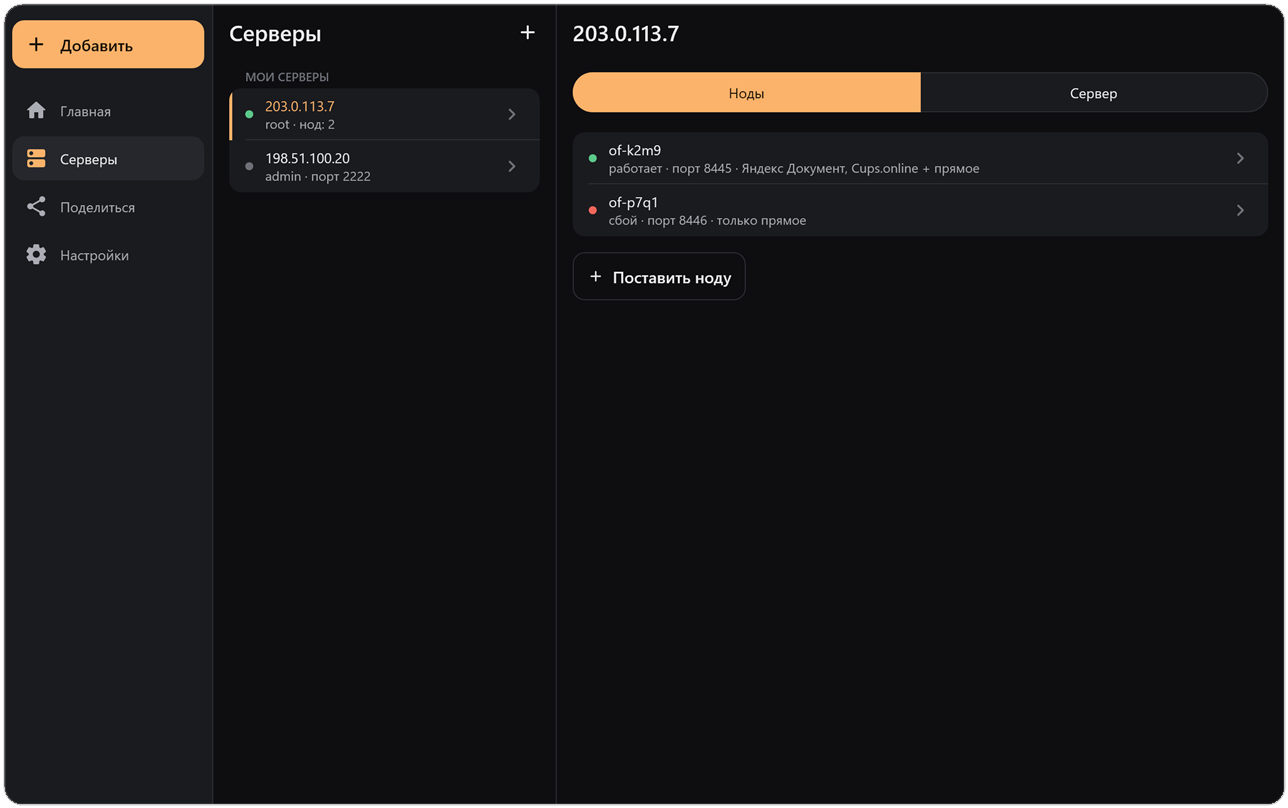
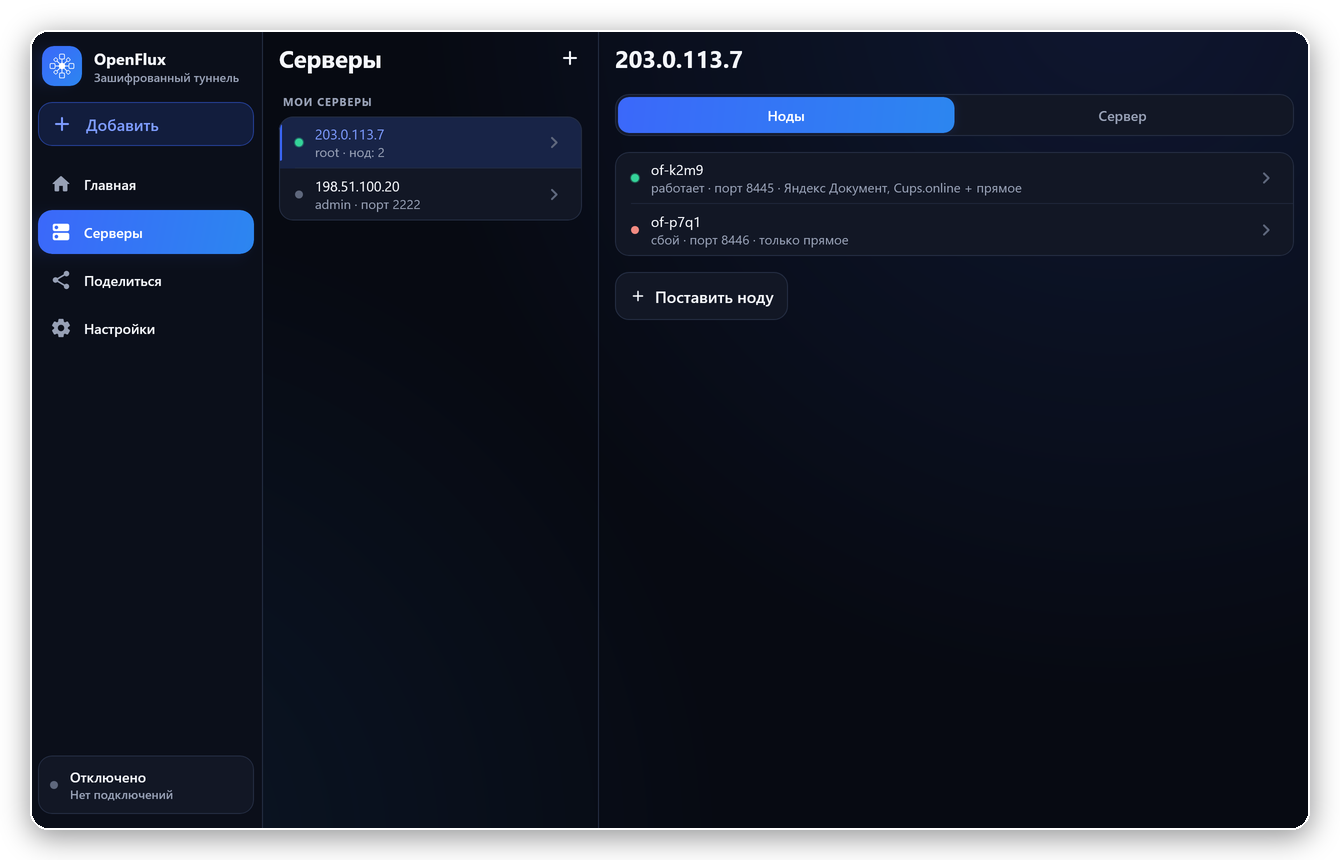
README: the new look, the Moon and Sun switch with an animation, more pictures (shared ef1e622)

Changed region(s): [[0.0, 0.0, 1.0, 1.0]]

diff --git a/README.ru.md b/README.ru.md
@@ -24,15 +24,28 @@
 </p>
 
 <p align="center">
-  <img src="docs/images/desktop-home.png" alt="OpenFlux на компьютере: экран подключения и боковое меню" width="860">
+  <img src="docs/images/desktop-home.png" alt="OpenFlux на компьютере, подключено: Солнце в центре своей сети" width="860">
 </p>
 
 ## Что это
 
 OpenFluxDesktop — приложение для компьютера на базе [OpenFlux](https://github.com/OpenFluxTeam/OpenFlux). Оно запускает ядро OpenFlux отдельным процессом и даёт ему окно, значок в трее и мастер настройки. Трафик идёт через **транспорт**: документ на веб-сервисе (Яндекс, Mail.ru, cups.online, Avito, Телемост, MAX) или обычное TCP-соединение с вашей нодой. В профиле может быть несколько транспортов; когда один перестаёт работать, приложение переходит на следующий по приоритету.
 
+## Выключатель
+
+<p align="center">
+  <img src="docs/images/switch.gif" alt="Выключатель: Луна трескается огнём и сгорает в Солнце, устройства просыпаются и связываются, потом всё возвращается" width="460">
+</p>
+
+Кнопка подключения — маленькая вселенная. Пока приложение выключено, в центре медленно вращается Луна, а вокруг неё дрейфуют телефоны, планшеты, ноутбуки и мониторы с тёмными экранами. Нажмите: пока подключение устанавливается, кора Луны трескается огнём; когда оно готово, Луна сгорает в Солнце, экраны загораются по мере того, как до них доходит его свет, устройства выстраиваются на орбиты, а светящиеся связи соединяют их друг с другом и с Солнцем — по ним бежит трафик, тем быстрее, чем больше его идёт. Отключитесь — всё проиграется обратно; неудачное подключение вспыхнет красным. Луна и Солнце настоящие: карта Луны NASA LRO и поверхность Солнца со спутника Solar Dynamics Observatory, их рисует шейдер на видеокарте.
+
+<p align="center">
+  <img src="docs/images/home-states.png" alt="Главная: выключено, подключение, подключено" width="860">
+</p>
+
 ## Возможности
 
+- **Новый облик.** Тёмно-синий фон и один синий акцент, как в 2.x, мягкий свет и движение повсюду; тёмная и светлая темы.
 - **Весь трафик или прокси.** Весь трафик компьютера через Wintun (Windows) или utun (macOS), либо локальный прокси SOCKS5 и HTTP. В Windows можно ещё и направить на него системный прокси на время подключения.
 - **Несколько транспортов в одном профиле**, у каждого свой приоритет и сеть, по которой ему можно ходить.
 - **Шифрование.** AES-256-GCM от края до края с вашим ключом: сервис, который несёт трафик, его не видит.
@@ -43,7 +56,8 @@ OpenFluxDesktop — приложение для компьютера на баз
 - **Обновления из релизов GitHub** со сверкой по `SHA256SUMS.txt`; ставятся только с вашего согласия.
 
 <p align="center">
-  <img src="docs/images/desktop-servers.png" alt="Список серверов на компьютере" width="860">
+  <img src="docs/images/desktop-light.png" alt="Светлая тема" width="49%">
+  <img src="docs/images/desktop-servers.png" alt="Сервер и его ноды" width="49%">
 </p>
 
 <!-- team:start -->
@@ -114,7 +128,7 @@ scripts/      build-core.sh
 Те же экраны работают на Android в [OpenFluxAndroid](https://github.com/OpenFluxTeam/OpenFluxAndroid); оба приложения используют модуль [OpenFluxClientShared](https://github.com/OpenFluxTeam/OpenFluxClientShared).
 
 <p align="center">
-  <img src="docs/images/phones.png" alt="Тот же интерфейс на телефоне" width="780">
+  <img src="docs/images/phones.png" alt="Тот же интерфейс на телефоне: Главная, серверы, нода, настройки" width="860">
 </p>
 
 ## Авторы

diff --git a/README.md b/README.md
@@ -24,15 +24,28 @@
 </p>
 
 <p align="center">
-  <img src="docs/images/desktop-home.png" alt="OpenFlux on the desktop: the connect screen and the sidebar" width="860">
+  <img src="docs/images/desktop-home.png" alt="OpenFlux on the desktop, connected: the Sun in the middle of its network" width="860">
 </p>
 
 ## What it is
 
 OpenFluxDesktop is the desktop app of [OpenFlux](https://github.com/OpenFluxTeam/OpenFlux). It runs the OpenFlux core as a separate process and gives it a window, a tray icon and a setup wizard. Traffic goes through a **transport**: a document on a web service (Yandex, Mail.ru, cups.online, Avito, Telemost, MAX) or a plain TCP connection to your own node. A profile can hold several transports; the app switches between them by priority when one stops working.
 
+## The switch
+
+<p align="center">
+  <img src="docs/images/switch.gif" alt="The switch: the Moon cracks with fire and burns into the Sun, the devices wake and connect, then it all goes back" width="460">
+</p>
+
+The connect button is a small universe. While the app is off, the Moon turns slowly in the middle and phones, tablets, laptops and monitors drift round it with their screens dark. Press it: while the connection is being set up, the Moon's crust cracks with fire; once it is up, the Moon burns into the Sun, the screens light up as its light reaches them, the devices settle into orbits, and links of light join them to each other and to the Sun, with traffic running along them, faster when the connection carries more. Disconnect and it all plays back; a failed connection flares red. The Moon and the Sun are real: NASA's LRO map of the Moon and the Sun's surface seen by the Solar Dynamics Observatory, drawn by a shader on the GPU.
+
+<p align="center">
+  <img src="docs/images/home-states.png" alt="Home: off, connecting, connected" width="860">
+</p>
+
 ## Features
 
+- **A new look.** Deep navy and one blue accent, as in 2.x, with soft light and motion everywhere; dark and light themes.
 - **Full tunnel or a proxy.** All of the computer's traffic through Wintun (Windows) or utun (macOS), or a local SOCKS5 and HTTP proxy. Windows can also point the system proxy at it while connected.
 - **Several transports in one profile**, each with a priority and the network it may use. When the best one fails, the next takes over.
 - **Encryption.** AES-256-GCM end to end with a key you set; a profile with a key hides the traffic from the service that carries it.
@@ -43,7 +56,8 @@ OpenFluxDesktop is the desktop app of [OpenFlux](https://github.com/OpenFluxTeam
 - **Updates from GitHub releases**, checked against the release's `SHA256SUMS.txt`, installed only when you agree.
 
 <p align="center">
-  <img src="docs/images/desktop-servers.png" alt="The servers list on the desktop" width="860">
+  <img src="docs/images/desktop-light.png" alt="The light theme" width="49%">
+  <img src="docs/images/desktop-servers.png" alt="A server and its nodes" width="49%">
 </p>
 
 <!-- team:start -->
@@ -114,7 +128,7 @@ scripts/      build-core.sh
 The same screens run on Android in [OpenFluxAndroid](https://github.com/OpenFluxTeam/OpenFluxAndroid); both use the module [OpenFluxClientShared](https://github.com/OpenFluxTeam/OpenFluxClientShared).
 
 <p align="center">
-  <img src="docs/images/phones.png" alt="The same interface on a phone" width="780">
+  <img src="docs/images/phones.png" alt="The same interface on a phone: Home, servers, a node, settings" width="860">
 </p>
 
 ## Credits
